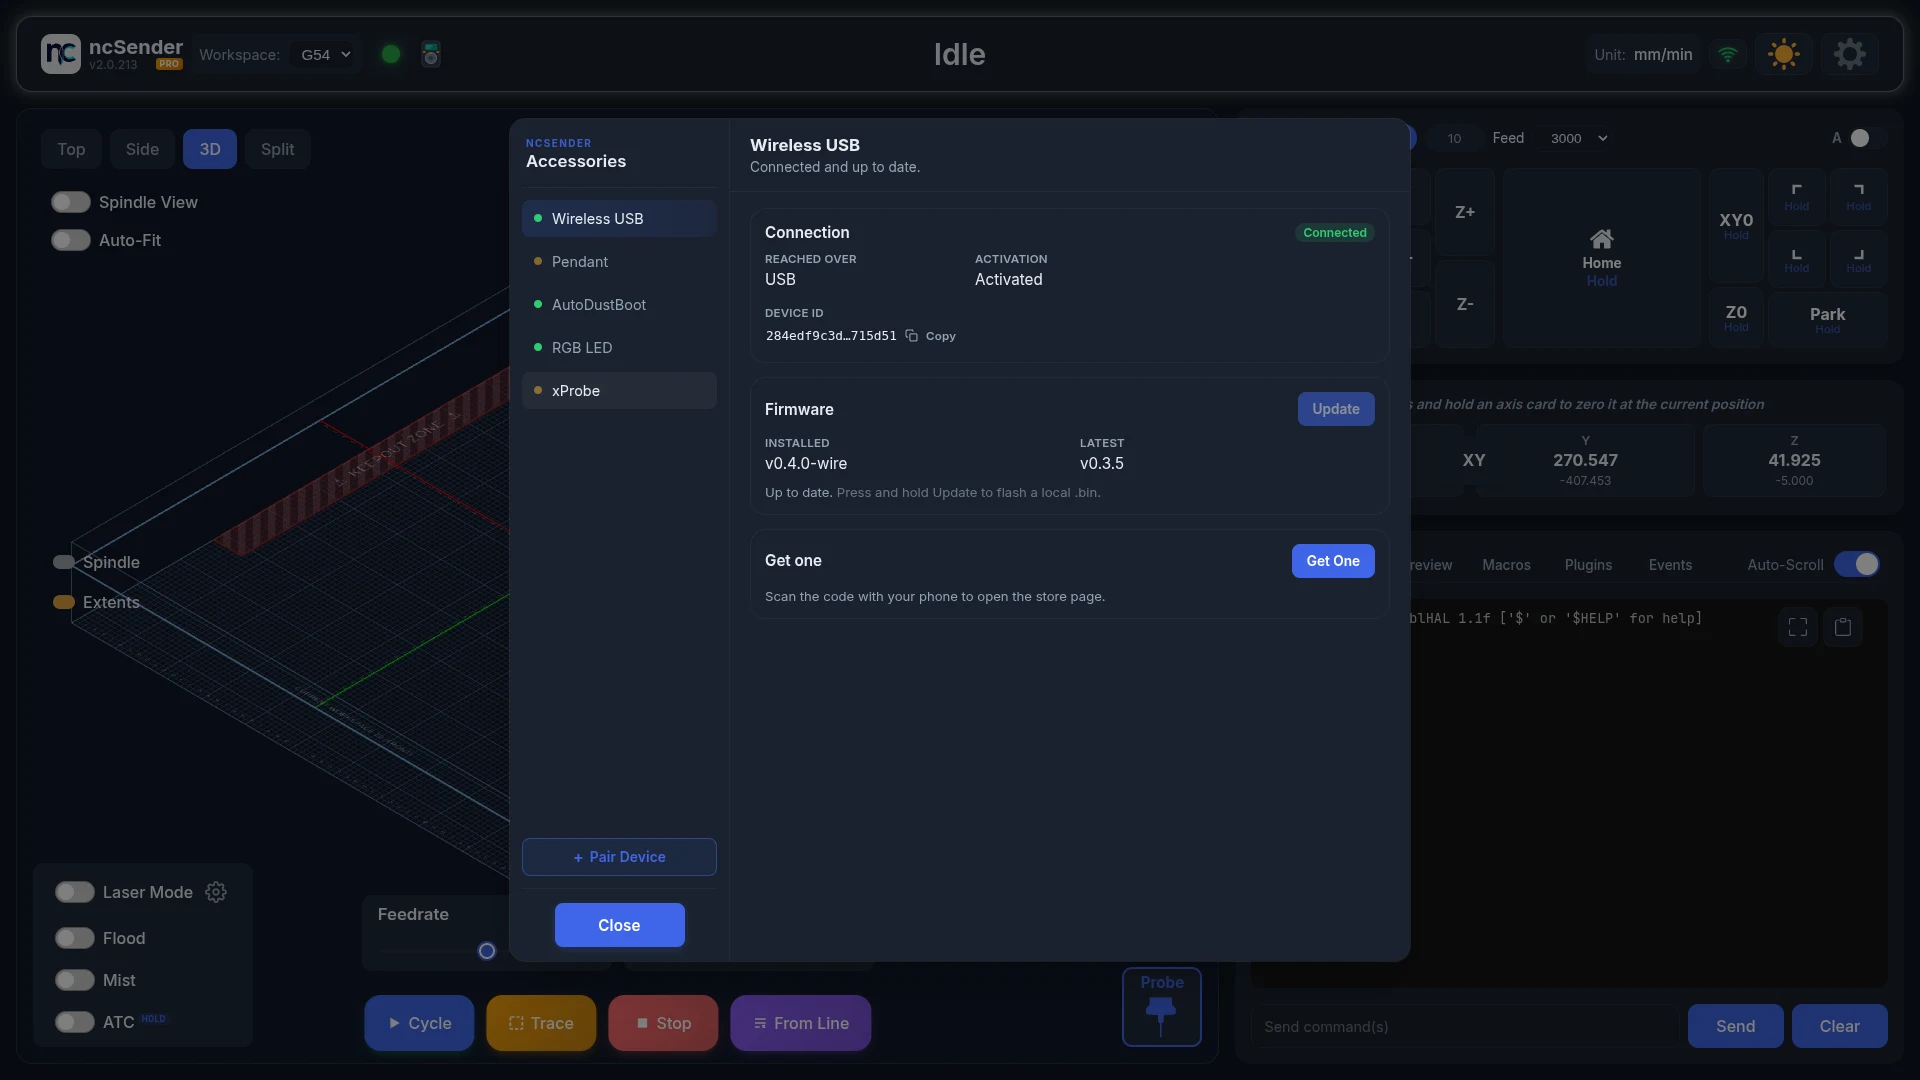
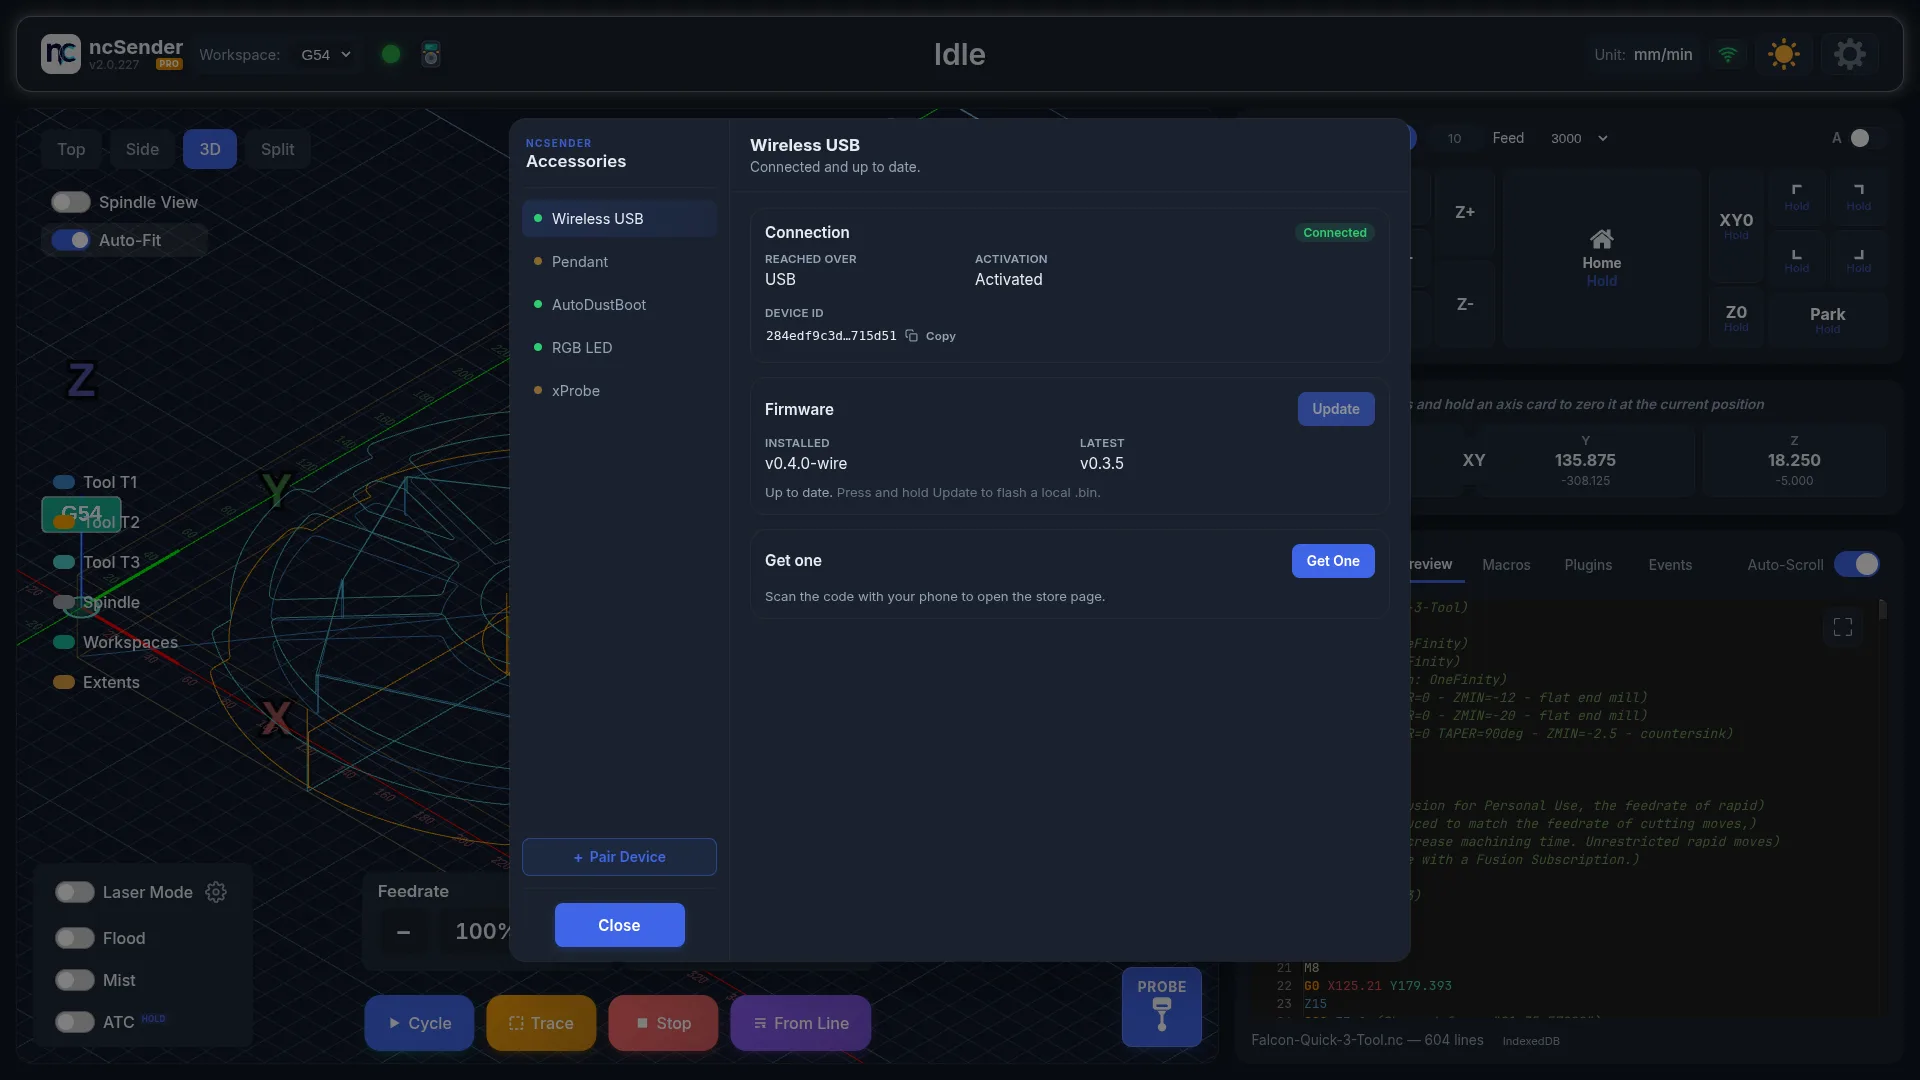
Document both screen orientations, and reshoot seven dialogs
The manual never mentioned that ncSender reflows for the screen it is on,
even though that is a big part of running it on a shop kiosk. Interface
Overview now shows both layouts side by side in tabs: landscape puts the
visualizer left with jog, DRO and terminal down the right; portrait puts
the visualizer across the top with the rest below. Same controls either
way, nothing hidden.

Both captured at real kiosk resolutions (1920x1080 and 1080x1920) from the
desktop layout, not the phone view -- that is a separate component tree and
is not what a portrait kiosk shows.

This also fixes the landing page: docs/index.md has always pointed at
home-kiosk-portrait.webp, which was never committed, so the front page of
the manual had a broken image. There are now no missing image targets
anywhere in the docs.

Reshot seven dialogs whose backgrounds still showed the old slider-style
overrides behind the modal -- the dialog was current but the screen behind
it dated the page:
  accessories-open / accessories-view (same shot, two pages)
  accessories-pendant, accessories-autodustboot, accessories-rgbled
  grblhal-firmware-tab, plugins-settings-list

diff --git a/docs/getting-started/interface-overview.md b/docs/getting-started/interface-overview.md
@@ -101,6 +101,29 @@ Language and keyboard layout settings are part of ncSender Pro.
   <source src="../assets/images/getting-started/language-switch-german.mp4" type="video/mp4">
 </video>
 
+## Screen Orientation
+
+ncSender lays itself out for the screen it is on. The same 1080p panel works
+mounted either way, and nothing is hidden or cut off in either orientation —
+you get the same controls, rearranged.
+
+=== "Landscape (1920 x 1080)"
+
+    ![Landscape layout](../assets/images/getting-started/orientation-landscape.webp)
+
+    The visualizer takes the left, with jog, the DRO and the terminal panel
+    stacked down the right.
+
+=== "Portrait (1080 x 1920)"
+
+    ![Portrait layout](../assets/images/getting-started/orientation-portrait.webp)
+
+    The visualizer sits across the top, with jog and the DRO below it and the
+    terminal panel along the bottom.
+
+On a kiosk, set the orientation in your OS display settings — ncSender follows
+the screen and reflows on its own.
+
 ## Open Links on a Kiosk
 
 A kiosk screen has no web browser. When you tap a link (help, store, release
